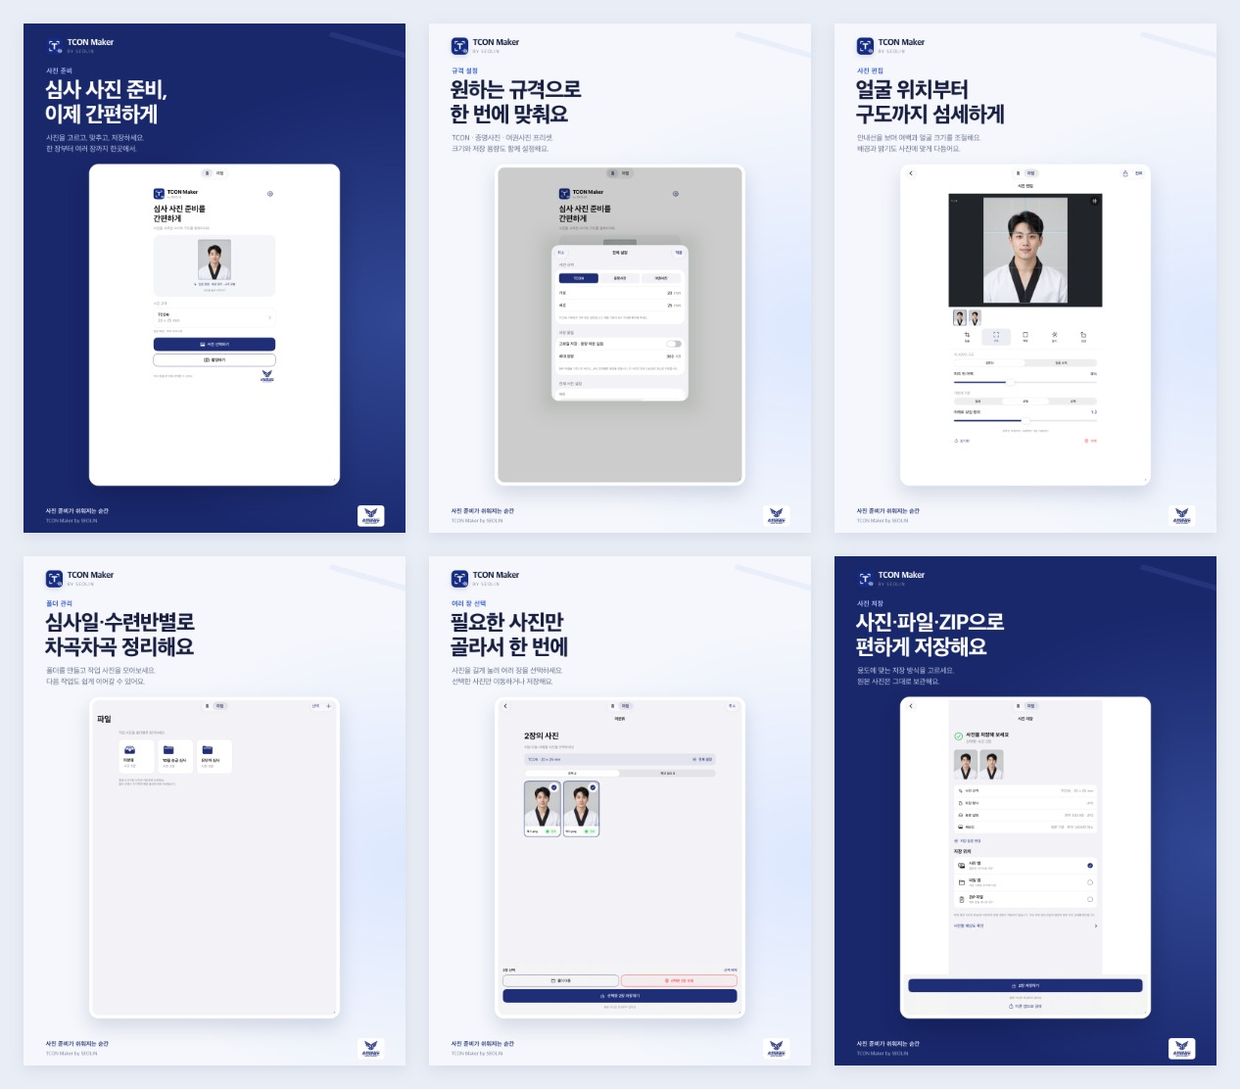
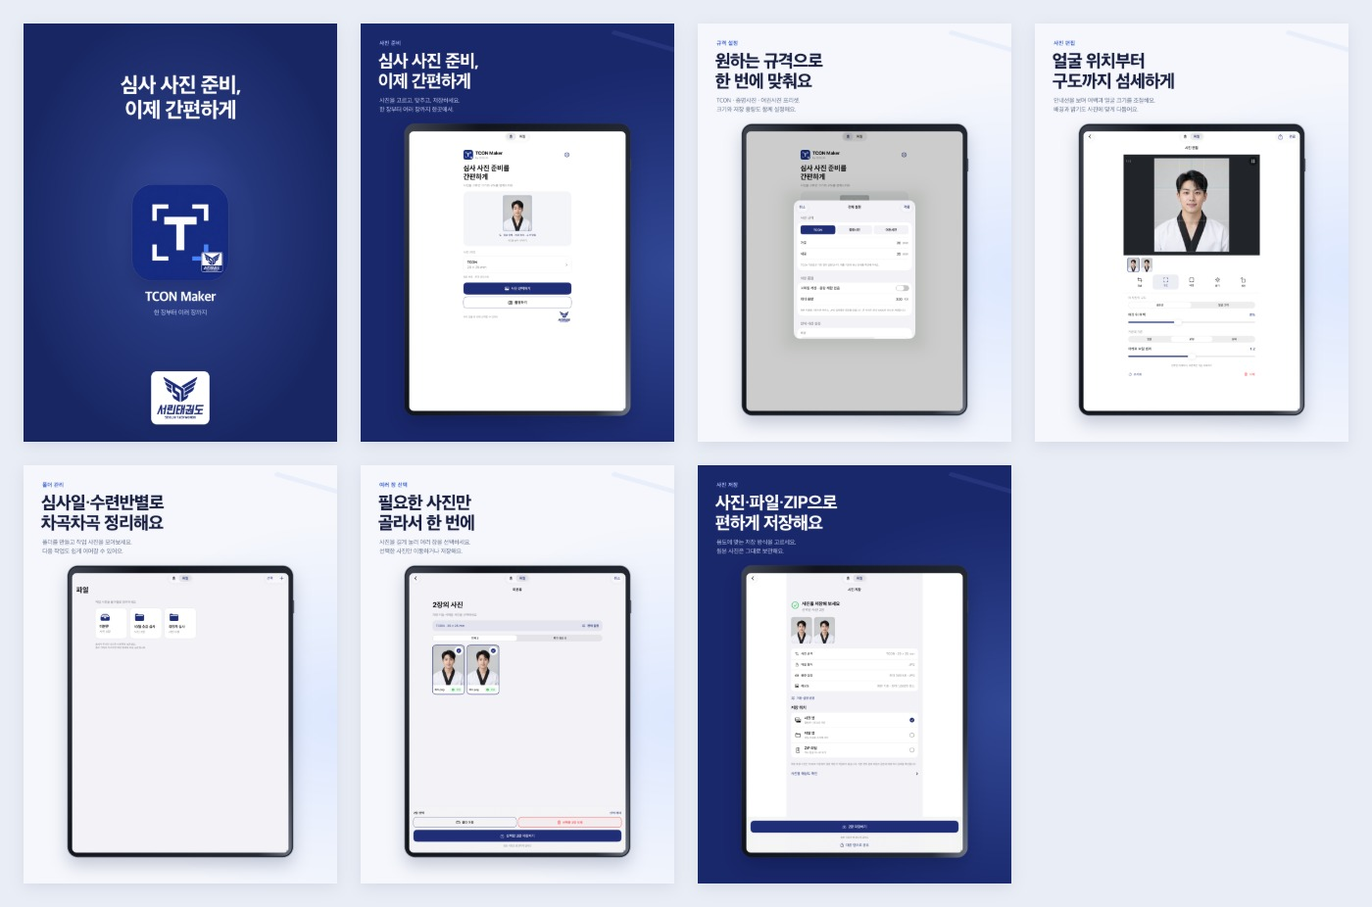
[add] 앱스토어 표지와 기기 목업 적용

diff --git a/Design/AppStore/index.html b/Design/AppStore/index.html
@@ -1,1 +1,1 @@
-<!doctype html><html lang="ko"><meta charset="utf-8"><meta name="viewport" content="width=device-width"><title>TCON Maker · App Store 홍보 이미지</title><style>*{box-sizing:border-box}body{margin:0;padding:48px;background:#f1f4fa;color:#18275e;font-family:'Apple SD Gothic Neo',sans-serif}header,section{max-width:1600px;margin:0 auto 64px}h1{font-size:38px;margin:8px 0}h2{font-size:22px}.grid{display:grid;grid-template-columns:repeat(6,minmax(0,1fr));gap:18px}a{color:inherit;text-decoration:none}img{width:100%;border-radius:12px;box-shadow:0 8px 22px #13255416}span{display:block;margin-top:14px;font-size:14px}p{color:#626f89;line-height:1.6}.links{display:flex;gap:24px}@media(max-width:900px){body{padding:24px}.grid{grid-template-columns:repeat(3,minmax(0,1fr))}}@media(max-width:500px){.grid{grid-template-columns:repeat(2,minmax(0,1fr))}}</style><header><small>TCON MAKER / BY SEOLIN</small><h1>App Store 홍보 이미지</h1><p>실제 앱 화면에 기능별 제목과 설명을 더한 최종 이미지입니다.<br>각 기기 폴더에서 01–06 순서로 업로드하세요. 원본 캡처는 Captures 폴더에 보관되어 있습니다.</p><div class="links"><a href="Source/promotion.html">디자인 원본</a><a href="Captures/index.html">원본 캡처</a><a href="README.md">제작·업로드 안내</a></div></header><section><h2>iPhone-Large-1320x2868</h2><p>1320 × 2868 · PNG · 6장 · 시간/배터리 영역 제외</p><div class="grid"><a href="ko-KR/iPhone-Large-1320x2868/01-start.png" target="_blank"><img src="ko-KR/iPhone-Large-1320x2868/01-start.png" alt="심사 사진 준비, 이제 간편하게"><span>심사 사진 준비, 이제 간편하게</span></a><a href="ko-KR/iPhone-Large-1320x2868/02-size.png" target="_blank"><img src="ko-KR/iPhone-Large-1320x2868/02-size.png" alt="원하는 규격으로 한 번에 맞춰요"><span>원하는 규격으로 한 번에 맞춰요</span></a><a href="ko-KR/iPhone-Large-1320x2868/03-editor.png" target="_blank"><img src="ko-KR/iPhone-Large-1320x2868/03-editor.png" alt="얼굴 위치부터 구도까지 섬세하게"><span>얼굴 위치부터 구도까지 섬세하게</span></a><a href="ko-KR/iPhone-Large-1320x2868/04-folders.png" target="_blank"><img src="ko-KR/iPhone-Large-1320x2868/04-folders.png" alt="심사일·수련반별로 차곡차곡 정리해요"><span>심사일·수련반별로 차곡차곡 정리해요</span></a><a href="ko-KR/iPhone-Large-1320x2868/05-selection.png" target="_blank"><img src="ko-KR/iPhone-Large-1320x2868/05-selection.png" alt="필요한 사진만 골라서 한 번에"><span>필요한 사진만 골라서 한 번에</span></a><a href="ko-KR/iPhone-Large-1320x2868/06-export.png" target="_blank"><img src="ko-KR/iPhone-Large-1320x2868/06-export.png" alt="사진·파일·ZIP으로 편하게 저장해요"><span>사진·파일·ZIP으로 편하게 저장해요</span></a></div></section><section><h2>iPhone-Medium-1179x2556</h2><p>1179 × 2556 · PNG · 6장 · 시간/배터리 영역 제외</p><div class="grid"><a href="ko-KR/iPhone-Medium-1179x2556/01-start.png" target="_blank"><img src="ko-KR/iPhone-Medium-1179x2556/01-start.png" alt="심사 사진 준비, 이제 간편하게"><span>심사 사진 준비, 이제 간편하게</span></a><a href="ko-KR/iPhone-Medium-1179x2556/02-size.png" target="_blank"><img src="ko-KR/iPhone-Medium-1179x2556/02-size.png" alt="원하는 규격으로 한 번에 맞춰요"><span>원하는 규격으로 한 번에 맞춰요</span></a><a href="ko-KR/iPhone-Medium-1179x2556/03-editor.png" target="_blank"><img src="ko-KR/iPhone-Medium-1179x2556/03-editor.png" alt="얼굴 위치부터 구도까지 섬세하게"><span>얼굴 위치부터 구도까지 섬세하게</span></a><a href="ko-KR/iPhone-Medium-1179x2556/04-folders.png" target="_blank"><img src="ko-KR/iPhone-Medium-1179x2556/04-folders.png" alt="심사일·수련반별로 차곡차곡 정리해요"><span>심사일·수련반별로 차곡차곡 정리해요</span></a><a href="ko-KR/iPhone-Medium-1179x2556/05-selection.png" target="_blank"><img src="ko-KR/iPhone-Medium-1179x2556/05-selection.png" alt="필요한 사진만 골라서 한 번에"><span>필요한 사진만 골라서 한 번에</span></a><a href="ko-KR/iPhone-Medium-1179x2556/06-export.png" target="_blank"><img src="ko-KR/iPhone-Medium-1179x2556/06-export.png" alt="사진·파일·ZIP으로 편하게 저장해요"><span>사진·파일·ZIP으로 편하게 저장해요</span></a></div></section><section><h2>iPad-13-2064x2752</h2><p>2064 × 2752 · PNG · 6장 · 시간/배터리 영역 제외</p><div class="grid"><a href="ko-KR/iPad-13-2064x2752/01-start.png" target="_blank"><img src="ko-KR/iPad-13-2064x2752/01-start.png" alt="심사 사진 준비, 이제 간편하게"><span>심사 사진 준비, 이제 간편하게</span></a><a href="ko-KR/iPad-13-2064x2752/02-size.png" target="_blank"><img src="ko-KR/iPad-13-2064x2752/02-size.png" alt="원하는 규격으로 한 번에 맞춰요"><span>원하는 규격으로 한 번에 맞춰요</span></a><a href="ko-KR/iPad-13-2064x2752/03-editor.png" target="_blank"><img src="ko-KR/iPad-13-2064x2752/03-editor.png" alt="얼굴 위치부터 구도까지 섬세하게"><span>얼굴 위치부터 구도까지 섬세하게</span></a><a href="ko-KR/iPad-13-2064x2752/04-folders.png" target="_blank"><img src="ko-KR/iPad-13-2064x2752/04-folders.png" alt="심사일·수련반별로 차곡차곡 정리해요"><span>심사일·수련반별로 차곡차곡 정리해요</span></a><a href="ko-KR/iPad-13-2064x2752/05-selection.png" target="_blank"><img src="ko-KR/iPad-13-2064x2752/05-selection.png" alt="필요한 사진만 골라서 한 번에"><span>필요한 사진만 골라서 한 번에</span></a><a href="ko-KR/iPad-13-2064x2752/06-export.png" target="_blank"><img src="ko-KR/iPad-13-2064x2752/06-export.png" alt="사진·파일·ZIP으로 편하게 저장해요"><span>사진·파일·ZIP으로 편하게 저장해요</span></a></div></section></html>
+<!doctype html><html lang="ko"><meta charset="utf-8"><meta name="viewport" content="width=device-width"><title>TCON Maker · App Store 홍보 이미지</title><style>*{box-sizing:border-box}body{margin:0;padding:48px;background:#f1f4fa;color:#18275e;font-family:'Apple SD Gothic Neo',sans-serif}header,section{max-width:1600px;margin:0 auto 64px}h1{font-size:38px;margin:8px 0}h2{font-size:22px}.grid{display:grid;grid-template-columns:repeat(7,minmax(0,1fr));gap:18px}a{color:inherit;text-decoration:none}img{width:100%;border-radius:12px;box-shadow:0 8px 22px #13255416}span{display:block;margin-top:14px;font-size:14px}p{color:#626f89;line-height:1.6}.links{display:flex;gap:24px}@media(max-width:900px){body{padding:24px}.grid{grid-template-columns:repeat(3,minmax(0,1fr))}}@media(max-width:500px){.grid{grid-template-columns:repeat(2,minmax(0,1fr))}}</style><header><small>TCON MAKER / BY SEOLIN</small><h1>App Store 홍보 이미지</h1><p>실제 앱 화면에 기능별 제목과 설명을 더한 최종 이미지입니다.<br>각 기기 폴더에서 01–07 순서로 업로드하세요. 원본 캡처는 Captures 폴더에 보관되어 있습니다.</p><div class="links"><a href="Source/promotion.html">디자인 원본</a><a href="Captures/index.html">원본 캡처</a><a href="README.md">제작·업로드 안내</a></div></header><section><h2>iPhone-Large-1320x2868</h2><p>1320 × 2868 · PNG · 표지 + 기능 소개 6장 · 시간/배터리 영역 제외</p><div class="grid"><a href="ko-KR/iPhone-Large-1320x2868/01-cover.png" target="_blank"><img src="ko-KR/iPhone-Large-1320x2868/01-cover.png" alt="심사 사진 준비, 이제 간편하게"><span>심사 사진 준비, 이제 간편하게</span></a><a href="ko-KR/iPhone-Large-1320x2868/02-start.png" target="_blank"><img src="ko-KR/iPhone-Large-1320x2868/02-start.png" alt="심사 사진 준비, 이제 간편하게"><span>심사 사진 준비, 이제 간편하게</span></a><a href="ko-KR/iPhone-Large-1320x2868/03-size.png" target="_blank"><img src="ko-KR/iPhone-Large-1320x2868/03-size.png" alt="원하는 규격으로 한 번에 맞춰요"><span>원하는 규격으로 한 번에 맞춰요</span></a><a href="ko-KR/iPhone-Large-1320x2868/04-editor.png" target="_blank"><img src="ko-KR/iPhone-Large-1320x2868/04-editor.png" alt="얼굴 위치부터 구도까지 섬세하게"><span>얼굴 위치부터 구도까지 섬세하게</span></a><a href="ko-KR/iPhone-Large-1320x2868/05-folders.png" target="_blank"><img src="ko-KR/iPhone-Large-1320x2868/05-folders.png" alt="심사일·수련반별로 차곡차곡 정리해요"><span>심사일·수련반별로 차곡차곡 정리해요</span></a><a href="ko-KR/iPhone-Large-1320x2868/06-selection.png" target="_blank"><img src="ko-KR/iPhone-Large-1320x2868/06-selection.png" alt="필요한 사진만 골라서 한 번에"><span>필요한 사진만 골라서 한 번에</span></a><a href="ko-KR/iPhone-Large-1320x2868/07-export.png" target="_blank"><img src="ko-KR/iPhone-Large-1320x2868/07-export.png" alt="사진·파일·ZIP으로 편하게 저장해요"><span>사진·파일·ZIP으로 편하게 저장해요</span></a></div></section><section><h2>iPhone-Medium-1179x2556</h2><p>1179 × 2556 · PNG · 표지 + 기능 소개 6장 · 시간/배터리 영역 제외</p><div class="grid"><a href="ko-KR/iPhone-Medium-1179x2556/01-cover.png" target="_blank"><img src="ko-KR/iPhone-Medium-1179x2556/01-cover.png" alt="심사 사진 준비, 이제 간편하게"><span>심사 사진 준비, 이제 간편하게</span></a><a href="ko-KR/iPhone-Medium-1179x2556/02-start.png" target="_blank"><img src="ko-KR/iPhone-Medium-1179x2556/02-start.png" alt="심사 사진 준비, 이제 간편하게"><span>심사 사진 준비, 이제 간편하게</span></a><a href="ko-KR/iPhone-Medium-1179x2556/03-size.png" target="_blank"><img src="ko-KR/iPhone-Medium-1179x2556/03-size.png" alt="원하는 규격으로 한 번에 맞춰요"><span>원하는 규격으로 한 번에 맞춰요</span></a><a href="ko-KR/iPhone-Medium-1179x2556/04-editor.png" target="_blank"><img src="ko-KR/iPhone-Medium-1179x2556/04-editor.png" alt="얼굴 위치부터 구도까지 섬세하게"><span>얼굴 위치부터 구도까지 섬세하게</span></a><a href="ko-KR/iPhone-Medium-1179x2556/05-folders.png" target="_blank"><img src="ko-KR/iPhone-Medium-1179x2556/05-folders.png" alt="심사일·수련반별로 차곡차곡 정리해요"><span>심사일·수련반별로 차곡차곡 정리해요</span></a><a href="ko-KR/iPhone-Medium-1179x2556/06-selection.png" target="_blank"><img src="ko-KR/iPhone-Medium-1179x2556/06-selection.png" alt="필요한 사진만 골라서 한 번에"><span>필요한 사진만 골라서 한 번에</span></a><a href="ko-KR/iPhone-Medium-1179x2556/07-export.png" target="_blank"><img src="ko-KR/iPhone-Medium-1179x2556/07-export.png" alt="사진·파일·ZIP으로 편하게 저장해요"><span>사진·파일·ZIP으로 편하게 저장해요</span></a></div></section><section><h2>iPad-13-2064x2752</h2><p>2064 × 2752 · PNG · 표지 + 기능 소개 6장 · 시간/배터리 영역 제외</p><div class="grid"><a href="ko-KR/iPad-13-2064x2752/01-cover.png" target="_blank"><img src="ko-KR/iPad-13-2064x2752/01-cover.png" alt="심사 사진 준비, 이제 간편하게"><span>심사 사진 준비, 이제 간편하게</span></a><a href="ko-KR/iPad-13-2064x2752/02-start.png" target="_blank"><img src="ko-KR/iPad-13-2064x2752/02-start.png" alt="심사 사진 준비, 이제 간편하게"><span>심사 사진 준비, 이제 간편하게</span></a><a href="ko-KR/iPad-13-2064x2752/03-size.png" target="_blank"><img src="ko-KR/iPad-13-2064x2752/03-size.png" alt="원하는 규격으로 한 번에 맞춰요"><span>원하는 규격으로 한 번에 맞춰요</span></a><a href="ko-KR/iPad-13-2064x2752/04-editor.png" target="_blank"><img src="ko-KR/iPad-13-2064x2752/04-editor.png" alt="얼굴 위치부터 구도까지 섬세하게"><span>얼굴 위치부터 구도까지 섬세하게</span></a><a href="ko-KR/iPad-13-2064x2752/05-folders.png" target="_blank"><img src="ko-KR/iPad-13-2064x2752/05-folders.png" alt="심사일·수련반별로 차곡차곡 정리해요"><span>심사일·수련반별로 차곡차곡 정리해요</span></a><a href="ko-KR/iPad-13-2064x2752/06-selection.png" target="_blank"><img src="ko-KR/iPad-13-2064x2752/06-selection.png" alt="필요한 사진만 골라서 한 번에"><span>필요한 사진만 골라서 한 번에</span></a><a href="ko-KR/iPad-13-2064x2752/07-export.png" target="_blank"><img src="ko-KR/iPad-13-2064x2752/07-export.png" alt="사진·파일·ZIP으로 편하게 저장해요"><span>사진·파일·ZIP으로 편하게 저장해요</span></a></div></section></html>

diff --git a/Design/AppStore/Source/promotion.html b/Design/AppStore/Source/promotion.html
@@ -8,9 +8,6 @@
 .dark .wash{background:radial-gradient(ellipse at 100% 58%,#324895 0,transparent 60%)}
 .crop-mark{position:absolute;right:-100px;top:140px;width:380px;height:380px;border-top:22px solid #dce4fa;border-right:22px solid #dce4fa;transform:rotate(16deg);border-radius:12px;opacity:.48}
 .dark .crop-mark{border-color:#586ac0;opacity:.2}
-.brand{position:absolute;left:76px;top:62px;display:flex;gap:18px;align-items:center}
-.brand img{width:68px;height:68px;border-radius:17px;box-shadow:0 8px 20px #101d4520}
-.brand strong{font-size:35px;letter-spacing:-.8px;font-weight:750}.brand small{display:block;font-size:19px;letter-spacing:2.4px;margin-top:3px;opacity:.55}
 .eyebrow{position:absolute;top:188px;left:78px;font-size:27px;color:#345bd0;font-weight:700;letter-spacing:1px}
 .dark .eyebrow{color:#adbeff}
 h1{position:absolute;top:244px;left:72px;margin:0;font-size:82px;line-height:1.15;font-weight:800;letter-spacing:-3.8px;white-space:pre-line}
@@ -20,31 +17,53 @@ h1{position:absolute;top:244px;left:72px;margin:0;font-size:82px;line-height:1.1
 .dark .frame{box-shadow:0 40px 90px #070c3048,0 0 0 1px #ffffff28}
 .screen{position:relative;overflow:hidden;border-radius:40px;background:white}
 .screen img{position:absolute;display:block;max-width:none}
-.footer{position:absolute;left:78px;right:70px;bottom:33px;height:90px;display:flex;align-items:center;justify-content:space-between}
-.footer-copy{font-size:21px;letter-spacing:-.2px;color:#75819e;line-height:1.7}.dark .footer-copy{color:#adbcdf}
-.footer-copy b{display:block;font-size:24px;color:#213270;letter-spacing:.4px}.dark .footer-copy b{color:#e8edff}
-.signature{width:108px;height:90px;border-radius:12px;background:white;display:flex;align-items:center;justify-content:center;padding:8px 9px}
-.signature img{width:100%;height:100%;object-fit:contain}
-.ipad .brand{left:90px;top:56px}.ipad .eyebrow{left:92px;top:176px}.ipad h1{left:85px;top:223px;font-size:88px;line-height:1.12}
+.ipad .eyebrow{left:92px;top:176px}.ipad h1{left:85px;top:223px;font-size:88px;line-height:1.12}
 .ipad .description{left:92px;top:440px;font-size:30px;line-height:1.45}.ipad .crop-mark{top:90px;right:-120px;width:500px;height:500px}
 .ipad .frame{padding:14px;border-radius:38px}.ipad .screen{border-radius:25px}
-.ipad .footer{left:90px;right:85px;bottom:25px;height:85px}.ipad .signature{width:108px;height:85px}
+
+
+/* Feature panels deliberately have no extra brand header or footer. */
+.eyebrow{top:114px}
+h1{top:171px}
+.description{top:388px}
+.frame{padding:72px 19px 28px;border-radius:88px;background:linear-gradient(105deg,#414652,#12151c 25%,#282d37 88%,#737987);box-shadow:0 38px 80px #101d4538,inset 0 0 0 3px #a2a8b4,inset 0 0 0 8px #171b22}
+.screen{border-radius:15px 15px 47px 47px}
+.frame:before{content:'';position:absolute;top:22px;left:50%;transform:translateX(-50%);width:118px;height:28px;border-radius:20px;background:#050609;box-shadow:inset 0 0 0 1px #282c36}
+.frame:after{content:'';position:absolute;bottom:11px;left:50%;transform:translateX(-50%);width:152px;height:5px;border-radius:8px;background:#9299a6}
+.side-key{position:absolute;right:-5px;top:295px;width:6px;height:106px;background:#636976;border-radius:0 4px 4px 0;box-shadow:inset -2px 0 2px #242831}
+.side-key.left{left:-5px;right:auto;top:234px;height:76px;border-radius:4px 0 0 4px;box-shadow:0 103px #636976}
+.ipad .eyebrow{top:82px}.ipad h1{top:139px}.ipad .description{top:357px}
+.ipad .frame{padding:38px 24px 24px;border-radius:52px}.ipad .screen{border-radius:23px}
+.ipad .frame:before{width:12px;height:12px;top:14px;background:#080b12;box-shadow:inset 0 0 0 3px #202c45}.ipad .frame:after{display:none}
+.ipad .side-key{top:170px;height:65px;width:4px;right:-3px}.ipad .side-key.left{display:none}
+.cover .crop-mark{display:none}
+.cover .wash{background:radial-gradient(ellipse at 50% 49%,#3b50a4 0,#26387d 34%,#182663 76%)}
+.cover h1{left:70px;right:70px;top:15%;text-align:center;font-size:92px;line-height:1.16;letter-spacing:-4px}
+.hero-icon{position:absolute;left:50%;top:50%;width:520px;height:520px;transform:translate(-50%,-50%);border-radius:112px;box-shadow:0 44px 100px #070e3d60,0 0 0 2px #ffffff24;overflow:hidden}
+.hero-icon img{width:100%;height:100%;display:block}
+.hero-name{position:absolute;left:0;right:0;top:calc(50% + 326px);text-align:center;font-size:66px;letter-spacing:-2px;font-weight:750}
+.hero-detail{position:absolute;left:0;right:0;top:calc(50% + 424px);text-align:center;font-size:31px;color:#bdc9ec;letter-spacing:-.5px}
+.cover-signature{position:absolute;bottom:105px;left:50%;transform:translateX(-50%);width:290px;height:265px;padding:19px;border-radius:27px;background:#fff;box-shadow:0 18px 50px #0b123622}
+.cover-signature img{width:100%;height:100%;object-fit:contain}
+.ipad.cover h1{top:12%;font-size:105px}.ipad .hero-icon{width:470px;height:470px;border-radius:100px}
+.ipad .hero-name{top:calc(50% + 278px)}.ipad .hero-detail{top:calc(50% + 374px)}
+.ipad .cover-signature{bottom:85px;width:285px;height:260px}
+
 </style>
 <main class="artboard" id="artboard">
  <div class="wash"></div><div class="crop-mark"></div>
- <div class="brand"><img src="../../../TCONMaker/Resources/Assets.xcassets/TCONLogo.imageset/tcon-logo.png" alt=""><div><strong>TCON Maker</strong><small>BY SEOLIN</small></div></div>
  <div class="eyebrow"></div><h1></h1><p class="description"></p>
- <div class="frame"><div class="screen"><img id="capture" alt="실제 앱 화면"></div></div>
- <footer class="footer"><div class="footer-copy"><b>사진 준비가 쉬워지는 순간</b><span>TCON Maker by SEOLIN</span></div><div class="signature"><img src="../../../TCONMaker/Resources/Assets.xcassets/SeolinLogo.imageset/logo.png" alt="서린태권도"></div></footer>
+ <div class="frame"><i class="side-key"></i><i class="side-key left"></i><div class="screen"><img id="capture" alt="실제 앱 화면"></div></div>
 </main>
 <script>
 const slides = [
- {id:'01-start',feature:'사진 준비',title:'심사 사진 준비,\n이제 간편하게',description:'사진을 고르고, 맞추고, 저장하세요.\n한 장부터 여러 장까지 한곳에서.',source:'01-home.png',dark:true},
- {id:'02-size',feature:'규격 설정',title:'원하는 규격으로\n한 번에 맞춰요',description:'TCON · 증명사진 · 여권사진 프리셋.\n크기와 저장 용량도 함께 설정해요.',source:'07-settings.png'},
- {id:'03-editor',feature:'사진 편집',title:'얼굴 위치부터\n구도까지 섬세하게',description:'안내선을 보며 여백과 얼굴 크기를 조절해요.\n배경과 밝기도 사진에 맞게 다듬어요.',source:'03-editor.png'},
- {id:'04-folders',feature:'폴더 관리',title:'심사일·수련반별로\n차곡차곡 정리해요',description:'폴더를 만들고 작업 사진을 모아보세요.\n다음 작업도 쉽게 이어갈 수 있어요.',source:'02-folders.png'},
- {id:'05-selection',feature:'여러 장 선택',title:'필요한 사진만\n골라서 한 번에',description:'사진을 길게 눌러 여러 장을 선택하세요.\n선택한 사진만 이동하거나 저장해요.',source:'05-selection.png'},
- {id:'06-export',feature:'사진 저장',title:'사진·파일·ZIP으로\n편하게 저장해요',description:'용도에 맞는 저장 방식을 고르세요.\n원본 사진은 그대로 보관해요.',source:'06-export.png',dark:true}
+ {id:'01-cover',cover:true,dark:true,title:'심사 사진 준비,\n이제 간편하게',description:'한 장부터 여러 장까지',feature:'TCON Maker'},
+ {id:'02-start',feature:'사진 준비',title:'심사 사진 준비,\n이제 간편하게',description:'사진을 고르고, 맞추고, 저장하세요.\n한 장부터 여러 장까지 한곳에서.',source:'01-home.png',dark:true},
+ {id:'03-size',feature:'규격 설정',title:'원하는 규격으로\n한 번에 맞춰요',description:'TCON · 증명사진 · 여권사진 프리셋.\n크기와 저장 용량도 함께 설정해요.',source:'07-settings.png'},
+ {id:'04-editor',feature:'사진 편집',title:'얼굴 위치부터\n구도까지 섬세하게',description:'안내선을 보며 여백과 얼굴 크기를 조절해요.\n배경과 밝기도 사진에 맞게 다듬어요.',source:'03-editor.png'},
+ {id:'05-folders',feature:'폴더 관리',title:'심사일·수련반별로\n차곡차곡 정리해요',description:'폴더를 만들고 작업 사진을 모아보세요.\n다음 작업도 쉽게 이어갈 수 있어요.',source:'02-folders.png'},
+ {id:'06-selection',feature:'여러 장 선택',title:'필요한 사진만\n골라서 한 번에',description:'사진을 길게 눌러 여러 장을 선택하세요.\n선택한 사진만 이동하거나 저장해요.',source:'05-selection.png'},
+ {id:'07-export',feature:'사진 저장',title:'사진·파일·ZIP으로\n편하게 저장해요',description:'용도에 맞는 저장 방식을 고르세요.\n원본 사진은 그대로 보관해요.',source:'06-export.png',dark:true}
 ];
 const devices={
  'iPhone-Medium-1179x2556':{width:1179,height:2556},
@@ -58,18 +77,26 @@ const baseWidth=device.ipad?1536:1080,baseHeight=device.height/device.width*base
 const board=document.querySelector('.artboard');board.classList.toggle('dark',!!slide.dark);board.classList.toggle('ipad',!!device.ipad);
 Object.assign(board.style,{width:baseWidth+'px',height:baseHeight+'px',transform:`scale(${device.width/baseWidth})`});
 document.body.style.width=device.width+'px';document.body.style.height=device.height+'px';
+if(slide.cover){
+ board.classList.add('cover');
+ board.innerHTML=`<div class="wash"></div><h1></h1><div class="hero-icon"><img src="../../../TCONMaker/Resources/Assets.xcassets/TCONLogo.imageset/tcon-logo.png" alt="TCON 앱 로고"></div><div class="hero-name">TCON Maker</div><div class="hero-detail"></div><div class="cover-signature"><img src="../../../TCONMaker/Resources/Assets.xcassets/SeolinLogo.imageset/logo.png" alt="서린태권도"></div>`;
+ board.querySelector('h1').textContent=slide.title;
+ board.querySelector('.hero-detail').textContent=slide.description;
+ window.renderSpec={device:key,width:device.width,height:device.height,slide,source:null,crop:null,baseWidth,baseHeight,slideCount:slides.length};
+}else{
 document.querySelector('.eyebrow').textContent=slide.feature;
 document.querySelector('h1').textContent=slide.title;document.querySelector('.description').textContent=slide.description;
 const sourceDevice=device.ipad?'iPad-13-2064x2752':'iPhone-Large-1320x2868';
 // Clip the OS status strip, not the app UI. Preserve the entire visible app beneath it.
 const sourceWidth=device.ipad?2064:1320;
 const crop=device.ipad?{x:0,y:58,width:2064,height:2666}:{x:0,y:180,width:1320,height:2672};
-const screenWidth=device.ipad?980:780,scale=screenWidth/crop.width,screenHeight=crop.height*scale;
-const padding=device.ipad?14:12,frameWidth=screenWidth+padding*2;
+const screenWidth=device.ipad?1060:800,scale=screenWidth/crop.width,screenHeight=crop.height*scale;
+const padding=device.ipad?24:19,frameWidth=screenWidth+padding*2;
 const frame=document.querySelector('.frame'),screen=document.querySelector('.screen'),capture=document.querySelector('#capture');
-Object.assign(frame.style,{left:(baseWidth-frameWidth)/2+'px',top:(device.ipad?565:598)+'px'});
+Object.assign(frame.style,{left:(baseWidth-frameWidth)/2+'px',top:(device.ipad?490:545)+'px'});
 Object.assign(screen.style,{width:screenWidth+'px',height:screenHeight+'px'});
 capture.src=`../Captures/ko-KR/${sourceDevice}/${slide.source}`;
 Object.assign(capture.style,{left:-crop.x*scale+'px',top:-crop.y*scale+'px',width:sourceWidth*scale+'px'});
-window.renderSpec={device:key,width:device.width,height:device.height,slide,source:`Captures/ko-KR/${sourceDevice}/${slide.source}`,crop,baseWidth,baseHeight};
+window.renderSpec={device:key,width:device.width,height:device.height,slide,source:`Captures/ko-KR/${sourceDevice}/${slide.source}`,crop,baseWidth,baseHeight,slideCount:slides.length};
+}
 </script></html>

diff --git a/README.md b/README.md
@@ -79,7 +79,7 @@ WebView는 화면을 표시하는 용도가 아닌 기존 사진 알고리즘을
 
 ## App Store 준비 자료
 
-- [앱스토어 홍보 이미지 18장](Design/AppStore/index.html) / [업로드 안내](Design/AppStore/README.md)
+- [앱스토어 홍보 이미지 21장](Design/AppStore/index.html) / [업로드 안내](Design/AppStore/README.md)
 - [스토어 설명 및 심사 메모](Docs/APP_STORE_METADATA.md)
 - [지원 안내](Docs/SUPPORT.md) / [출시 점검 결과와 남은 확인](Docs/RELEASE.md)
 
